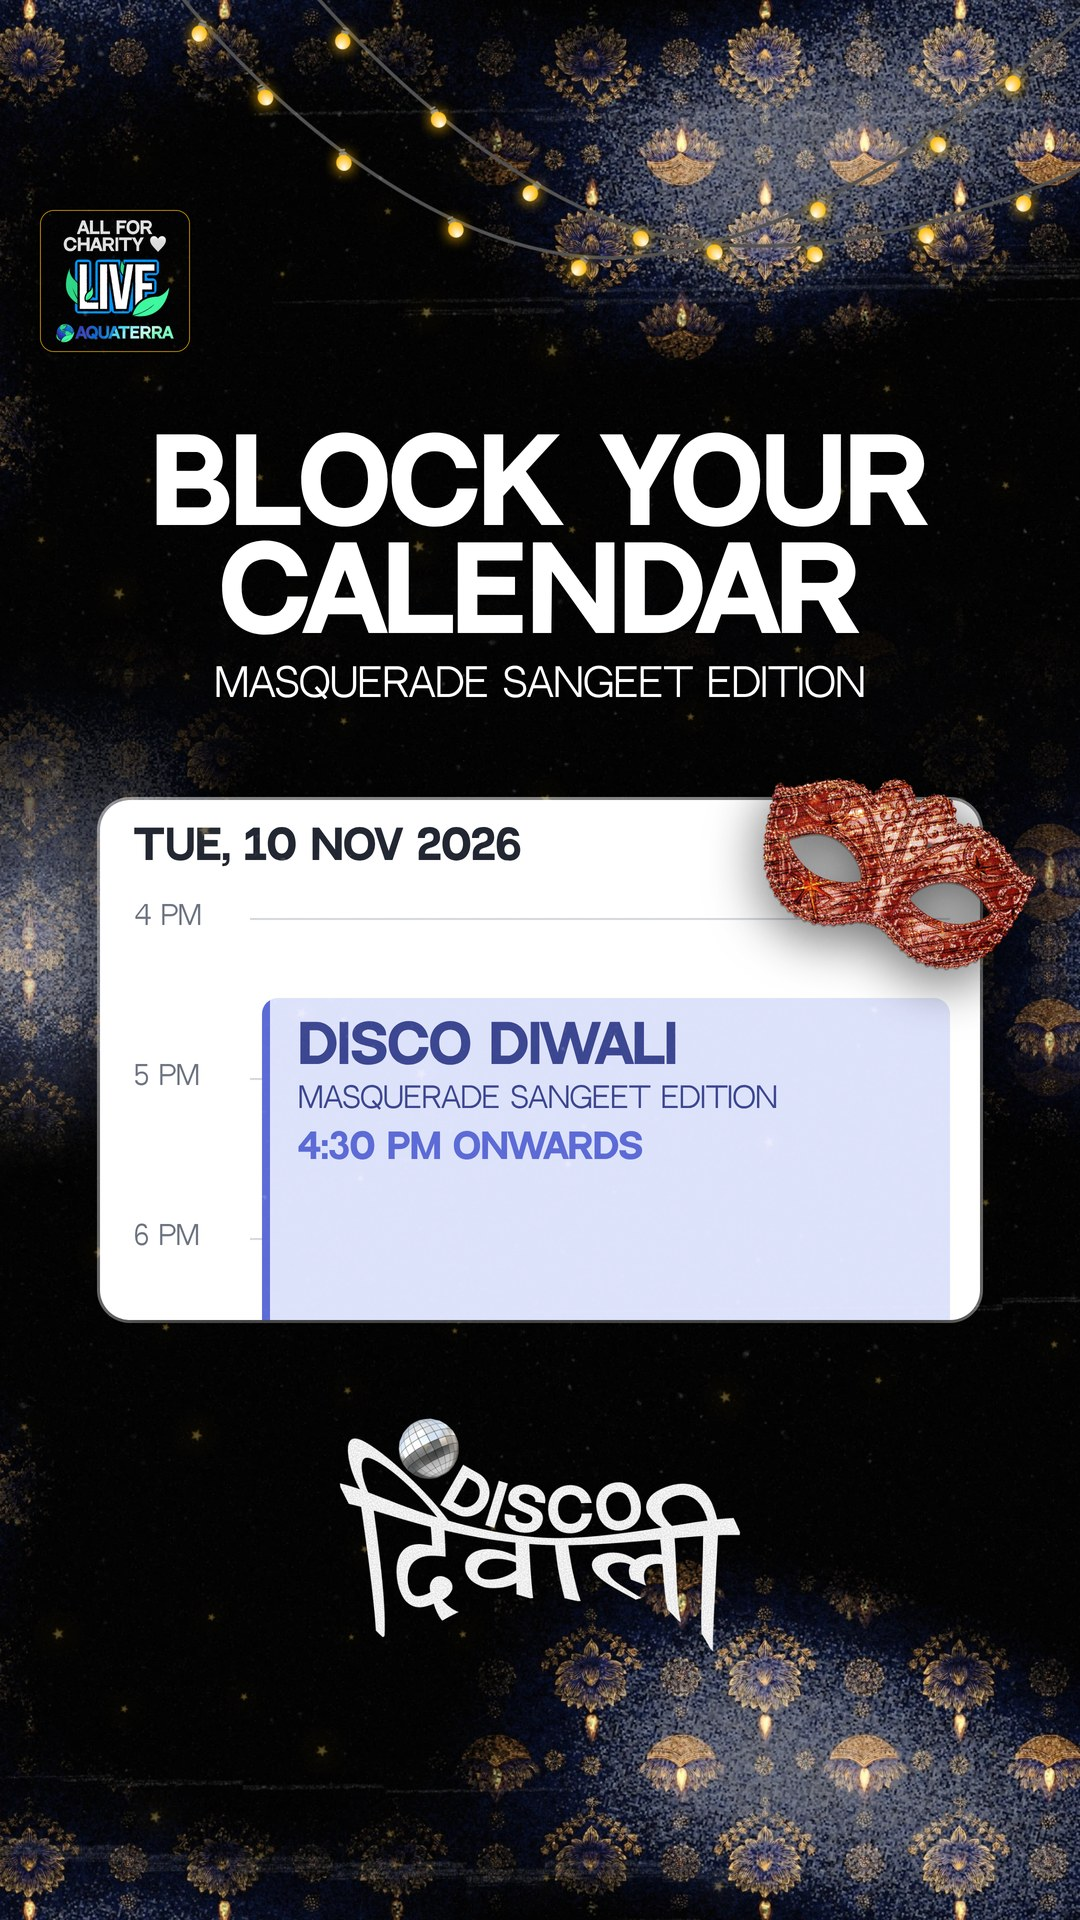
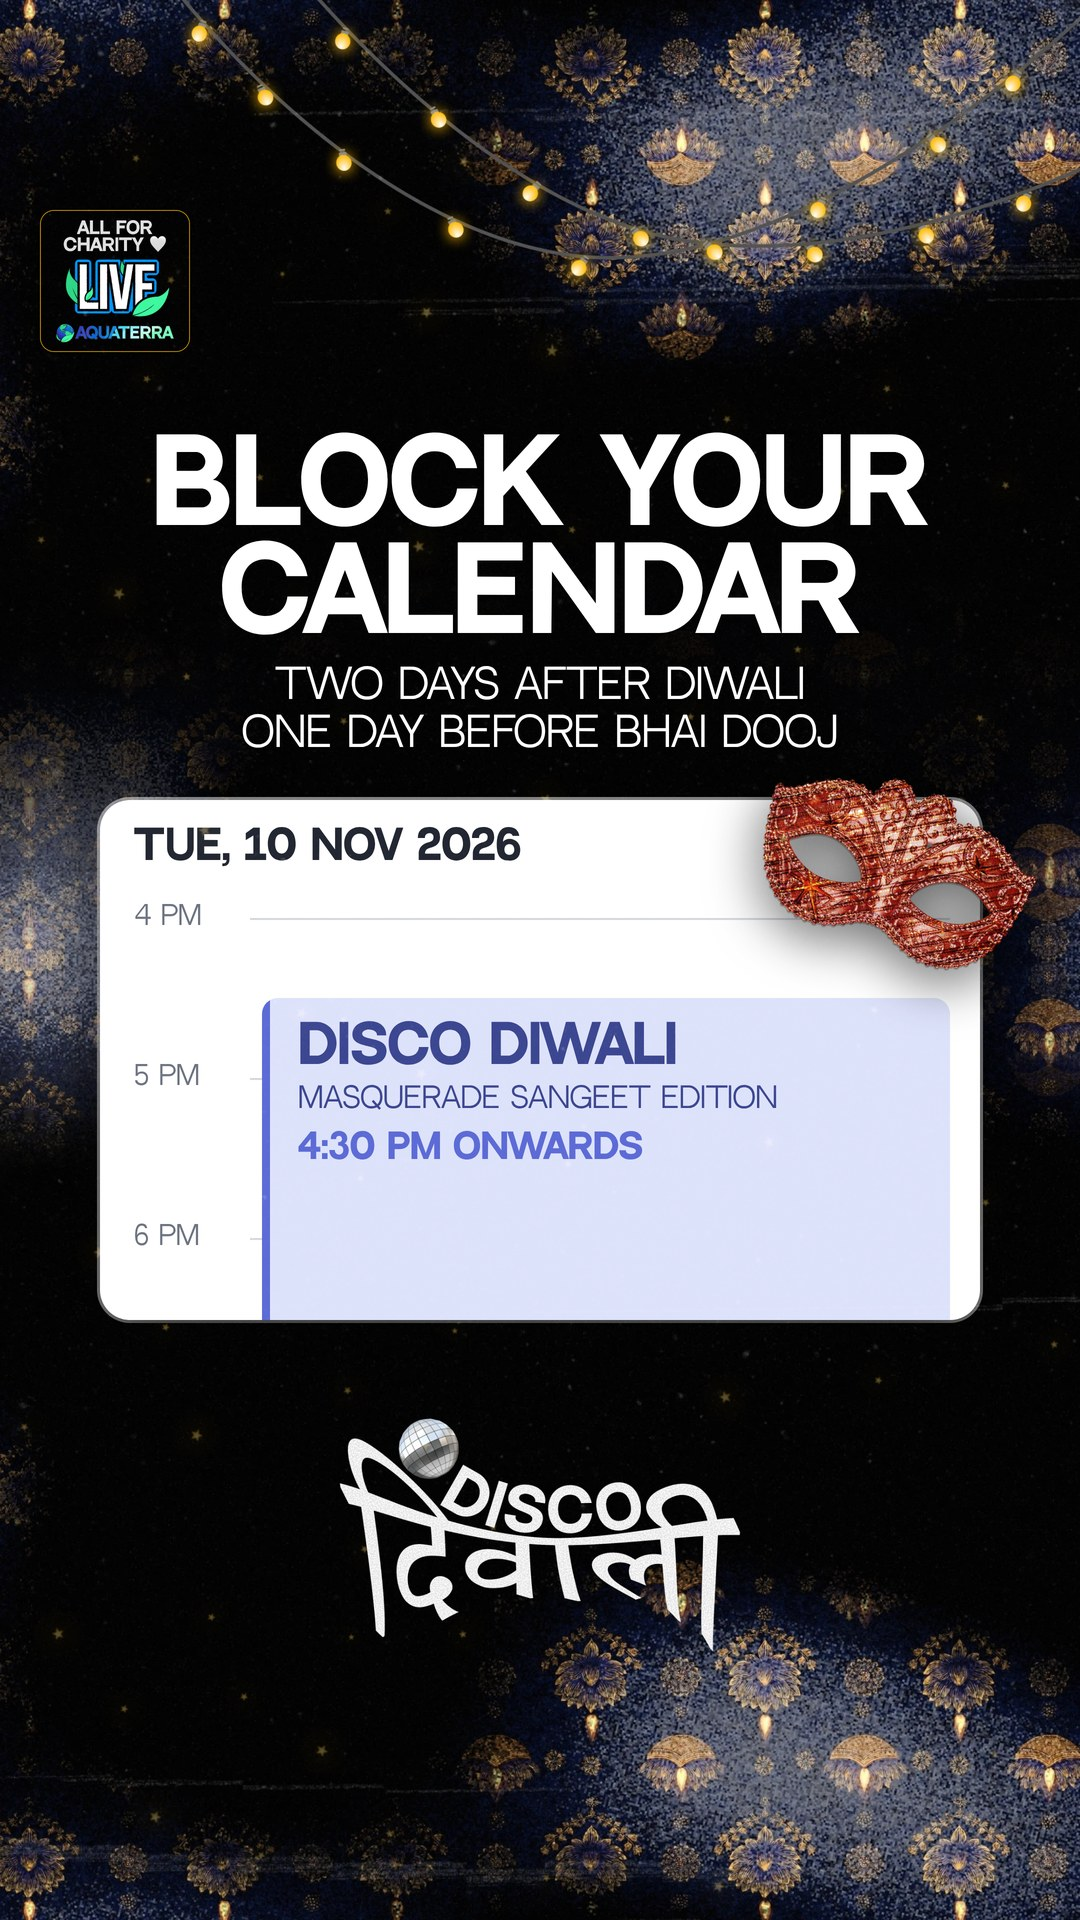
Disco Diwali date reveal: two days after Diwali / one day before Bhai Dooj lines (festival-week claim flagged for confirmation)
Claude-Session: https://claude.ai/code/session_01SvqxkoTEENgXPyjFifmnqB

Changed region(s): [[0.1833, 0.3438, 0.7944, 0.4062]]

diff --git a/scratchpad/dd_date_reveal.py b/scratchpad/dd_date_reveal.py
@@ -1,7 +1,8 @@
 """DISCO DIWALI date + time reveal poster, feed (1080x1350) and story (1080x1920). Inspo: a headline over a photo, with a calendar-event card floating
 under it (hour lines, one event block).
 
-The headline teases and the card reveals: BLOCK YOUR CALENDAR, then a white calendar card whose event block starts at 4:30 and runs off the card's
+The headline teases and the card reveals: BLOCK YOUR CALENDAR, then two lines placing the date in the festival week (TWO DAYS AFTER DIWALI / ONE DAY BEFORE BHAI DOOJ, supplied by the user
+2026-10-19; Diwali 2026 is Sunday 8 November, but several sources list Bhai Dooj on the 10th, so CONFIRM it against a Kolkata panchang before posting), then a white calendar card whose event block starts at 4:30 and runs off the card's
 bottom edge, because the supplied time is "4:30 PM onwards" (no end time exists, so none is drawn). Same family as the location reveal poster
 (scratchpad/dd_location_reveal.py): diya ground, string lights, LIVE badge top left, copper mask lying across the card's top-right corner, the
 DISCO DIWALI lockup (with its ball) as a footer mark. No pill, no link.
@@ -64,17 +65,18 @@ def poster(H):
     bx, by, bw = 40, (210 if story else 40), 150
     parts.append(f'<img data-tag="badge" src="{dd.uri("live_badge.png")}" style="position:absolute;left:{bx}px;top:{by}px;width:{bw}px;z-index:20">'); els.append(("badge", bx, by, bw, round(bw * 1005 / 1061)))
     # headline (teases) + the edition line under it
-    size = 112 if story else 100
-    hy = 430 if story else 215
+    size = 112 if story else 92
+    hy = 430 if story else 205
     def line(tag, txt, top, fsize, weight, h, extra=""):
         parts.append(f'<div data-tag="{tag}" style="position:absolute;left:0;width:{W}px;top:{top}px;text-align:center;font-family:var(--d);font-weight:{weight};font-size:{fsize}px;line-height:1;'
                      f'text-transform:uppercase;white-space:nowrap;{STROKE}{extra}z-index:20">{txt}</div>'); els.append((tag, 70, top, 940, h))
     line("head1", "Block your", hy, size, 700, size)
     line("head2", "calendar", hy + round(size * .96), size, 700, size)
     sy = hy + round(size * .96) * 2 + 20
-    line("sub", "Masquerade Sangeet Edition", sy, 38, 400, 40)
+    line("sub1", "Two days after Diwali", sy, 40, 400, 42)
+    line("sub2", "One day before Bhai Dooj", sy + 48, 40, 400, 42)
     # the card, with the copper mask lying across its top-right corner (the placement used on the location poster)
-    ctop = (800 if story else 505)
+    ctop = (800 if story else 520)
     cleft = (W - CARD_W) // 2
     parts.append(calendar_card(cleft, ctop)); els.append(("card", cleft, ctop, CARD_W, CARD_H))
     mw = 330; mx, my = 730, ctop - 62

diff --git a/brain/DISCO_DIWALI.md b/brain/DISCO_DIWALI.md
@@ -88,7 +88,7 @@ Four 1080x1350 slides on the approved diya ground (user, 2026-10-14, "i want thi
 Feed 1080x1350 and story 1080x1920 from a user inspo (a tilted rounded map card lying on the ground with round map buttons and a pin avatar). The map is the USER'S OWN screenshot (`engine/assets/disco_diwali/map_60_chowringhee.jpg`), never redrawn, so no street label is ours; the "3D" and compass buttons are drawn here with no Apple or Google marks. Facts printed, all supplied by the user: venue "60, Chowringhee Banquets" and the address "60, Chowringhee Road, Bishop Lefroy Rd, Kolkata, West Bengal 700020". No date or time (user choice), no price, no lineup. Layout (user, 2026-10-19: no pill, lockup in the footer like the reference chat slide, mask back on the card, no edition line): LIVE badge top left, the map card with the copper mask lying across its top-right corner (the placement the user preferred over a top-right mask), the reveal copy (the venue, the address, then a plain bold line ON THE ROOFTOP; the event is on a rooftop, user 2026-10-19). Three earlier wordings were tried and rejected by eye (THE ROOFTOP AT above the venue, a gold ROOFTOP pill, and a callout on the map pin); `dd_location_reveal.py` keeps them behind the `ROOFTOP=` switch (default `below`), then the DISCO DIWALI lockup WITH its ball as a small footer mark. No LINK IN BIO pill, no MASQUERADE SANGEET EDITION line, no LOCATION REVEAL label. The map card is 960px wide (a tilted box ~995px), the hero. The inspo's Memoji pin avatar is not used; the red venue pin in the screenshot carries the pointing. Lessons: size the feed stack from the room left (the first build ended at y=1432 on a 1350 canvas, caught by the gate); a headline at the story's full size sat 50px from the edge, so 90px. The "Turf XL, New Alipore" in the TerraThon scripts is where the ticket STALL is, not the event venue.
 
 ### Date + time reveal poster (2026-10-19) — `scratchpad/dd_date_reveal.py`, JPEGs in `sample_outputs/disco_diwali_date/`
-Feed 1080x1350 and story 1080x1920 from a user inspo (a headline over a photo with a calendar-event card floating under it). The headline teases (BLOCK YOUR CALENDAR, then the edition line) and a drawn white calendar card reveals: "Tue, 10 Nov 2026" (the weekday is DERIVED from the supplied date), hour lines 4, 5 and 6 PM, and one periwinkle event block (DISCO DIWALI, MASQUERADE SANGEET EDITION, 4:30 PM ONWARDS) that starts half way between the 4 and 5 PM lines and runs off the card's bottom edge, because the supplied time has no end. The card is a drawn UI device, not a screenshot (no Google or Apple marks); the periwinkle exists only as the calendar's own colour. Same family as the location poster: diya ground, string lights, LIVE badge, copper mask across the card's top-right corner, the lockup with its ball as a footer mark, no pill. No venue, price or lineup. Lesson: a 3-hour calendar card needs a half-hour offset, not a guessed pixel, to make "4:30" read right.
+Feed 1080x1350 and story 1080x1920 from a user inspo (a headline over a photo with a calendar-event card floating under it). The headline teases (BLOCK YOUR CALENDAR, then TWO DAYS AFTER DIWALI / ONE DAY BEFORE BHAI DOOJ, supplied by the user 2026-10-19. UNVERIFIED AGAINST A KOLKATA PANCHANG: Diwali 2026 is Sunday 8 November, but several web sources list Bhai Dooj on 10 November, which would make the event day itself Bhai Dooj; Bengal's Bhai Phota may fall a day later. Confirm before posting) and a drawn white calendar card reveals: "Tue, 10 Nov 2026" (the weekday is DERIVED from the supplied date), hour lines 4, 5 and 6 PM, and one periwinkle event block (DISCO DIWALI, MASQUERADE SANGEET EDITION, 4:30 PM ONWARDS) that starts half way between the 4 and 5 PM lines and runs off the card's bottom edge, because the supplied time has no end. The card is a drawn UI device, not a screenshot (no Google or Apple marks); the periwinkle exists only as the calendar's own colour. Same family as the location poster: diya ground, string lights, LIVE badge, copper mask across the card's top-right corner, the lockup with its ball as a footer mark, no pill. No venue, price or lineup. Lesson: a 3-hour calendar card needs a half-hour offset, not a guessed pixel, to make "4:30" read right.
 
 ## 6. Conflicts with CLAUDE.md and how they were resolved (precedence ladder, sec 2)
 - Ground, palette and fonts differ from the AQ house style. Resolved as a format exception, like TerraThon. The format wins inside `discodiwali.py` only.
